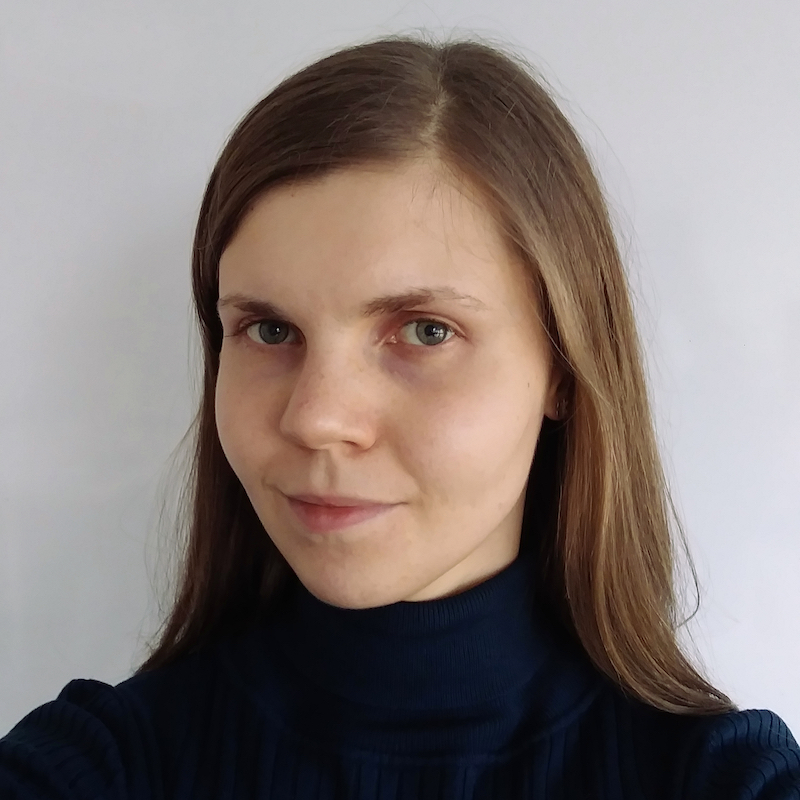
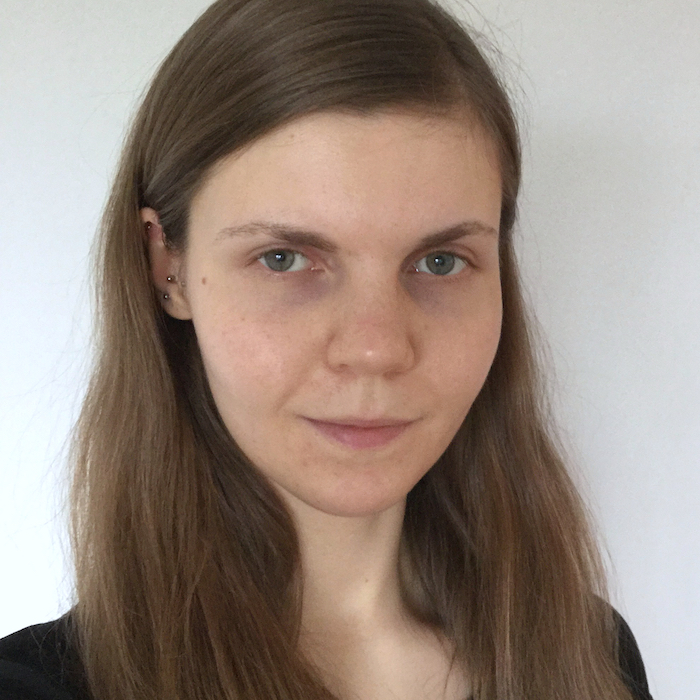
Update volunteering and projects

diff --git a/about/index.html b/about/index.html
@@ -3,30 +3,38 @@ layout: default
 title: About
 ---
 
-{% img avatar alt:"Angelika" class:avatar%}
-
-{% include social_links.html %}
-
 <h1>Hi!</h1>
 
-{% img about/wave-emoji alt:"A drawing of the waving emoji" class:'wave' %}
+<div class="grid">
+  <div class="column-image">
+    {% img about/portrait alt:"Angelika" class:portrait%}
 
-<p>My name is Angelika Tyborska and I'm a web developer located in Berlin, Germany.</p>
+    {% include social_links.html %}
+  </div>
+  <div>
+    <p>My name is Angelika Tyborska and I'm a web developer located in Berlin, Germany.</p>
 
-<p>I currently work for <a href="https://steadyhq.com">Steady Media</a>, where I help build a membership platform for independent content creators.</p>
+    <p>I currently work for <a href="https://steadyhq.com">Steady Media</a>, where I help build a membership platform for independent content creators.</p>
 
-<p>I write this blog to document and share my experiences with various challenges that I encounter writing software.
-  I am by no means an expert, so please take my posts with a healthy dose of skepticism, and make sure to leave a comment
-  if you have constructive feedback.</p>
-
+    <p>I write this blog to document and share my experiences with various challenges that I encounter writing software.
+      I am by no means an expert, so please take my posts with a healthy dose of skepticism, and make sure to leave a comment
+      if you have constructive feedback.</p>
+  </div>
+</div>
 
 <h3>Volunteering</h3>
 
 <ul class="list">
   <li>
     <div class="list-item">
-      <span>I mentor Elixir learners on <a href="https://exercism.io/">Exercism</a>.</span>
+      <span>Mentoring Elixir learners on <a href="https://exercism.io/">Exercism</a>.</span>
       <span class="date">July 2018 - Present</span>
+    </div>
+  </li>
+  <li>
+    <div class="list-item">
+      <span>Mentoring at an Elixir beginners workshop organized by <a href="https://taste-elixir.io">Taste Elixir</a> in Poznań.</span>
+      <span class="date">29-30 November 2019</span>
     </div>
   </li>
 </ul>
@@ -35,6 +43,12 @@ title: About
 <h3>Projects</h3>
 
 <ul class="list">
+  <li>
+    <div class="list-item">
+      <span><a href="https://css-art.angelika.me/">CSS art</a> - I try to write some CSS to create things that look cool.</span>
+      <span class="date">November 2019</span>
+    </div>
+  </li>
   <li>
     <div class="list-item">
       <span><a href="https://falling-tiles.angelika.me/">Falling Tiles</a> - a Tetris clone written using Phoenix LiveView, for fun.</span>
@@ -66,3 +80,5 @@ title: About
 
 <p>Feel free to contact me on Twitter <a href="https://twitter.com/atyborska93">@atyborska93</a>
   or write an email to <span class="contact-email">{% asset hello %}</span>.</p>
+
+{% img about/wave-emoji alt:"A drawing of the waving emoji" class:'wave' %}

diff --git a/_assets/stylesheets/pages/_about.scss b/_assets/stylesheets/pages/_about.scss
@@ -1,4 +1,19 @@
 .about {
+  .grid {
+    display: grid;
+    grid-template-columns: auto;
+    grid-row-gap: $medium-gap;
+    grid-column-gap: $medium-gap;
+
+    @media #{$medium} {
+      grid-template-columns: auto auto;
+    }
+  }
+
+  .column-image {
+    width: 250px;
+  }
+
   .social-links {
     display: block;
     margin-bottom: $small-gap;
@@ -18,17 +33,14 @@
     }
   }
 
-  .avatar {
+  .portrait {
     display: block;
-    width: 200px;
-    height: 200px;
-    margin: $huge-gap auto;
-    border-radius: 50%;
   }
 
   .list {
     li {
       display: flex;
+      margin-bottom: $small-gap;
     }
 
     a {
